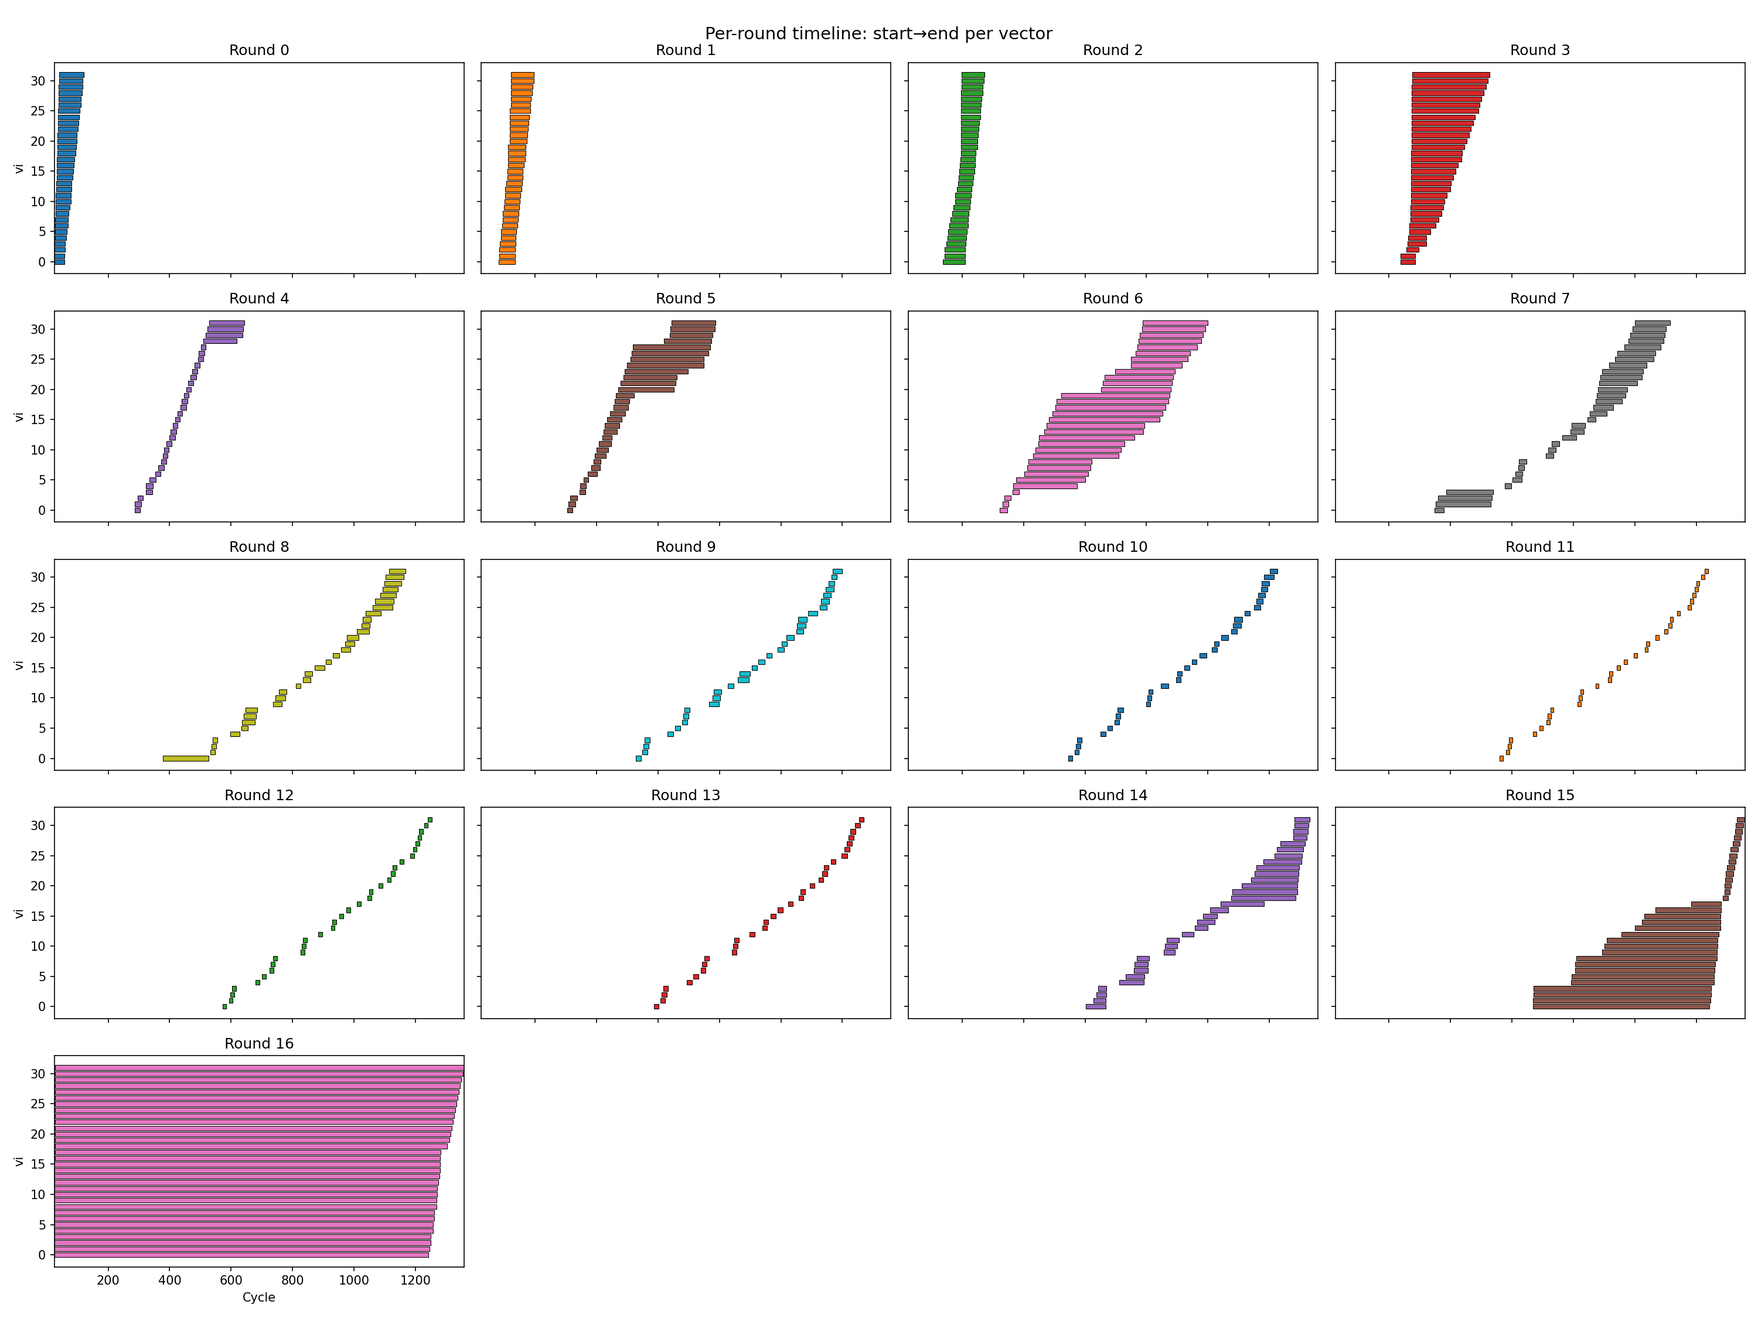
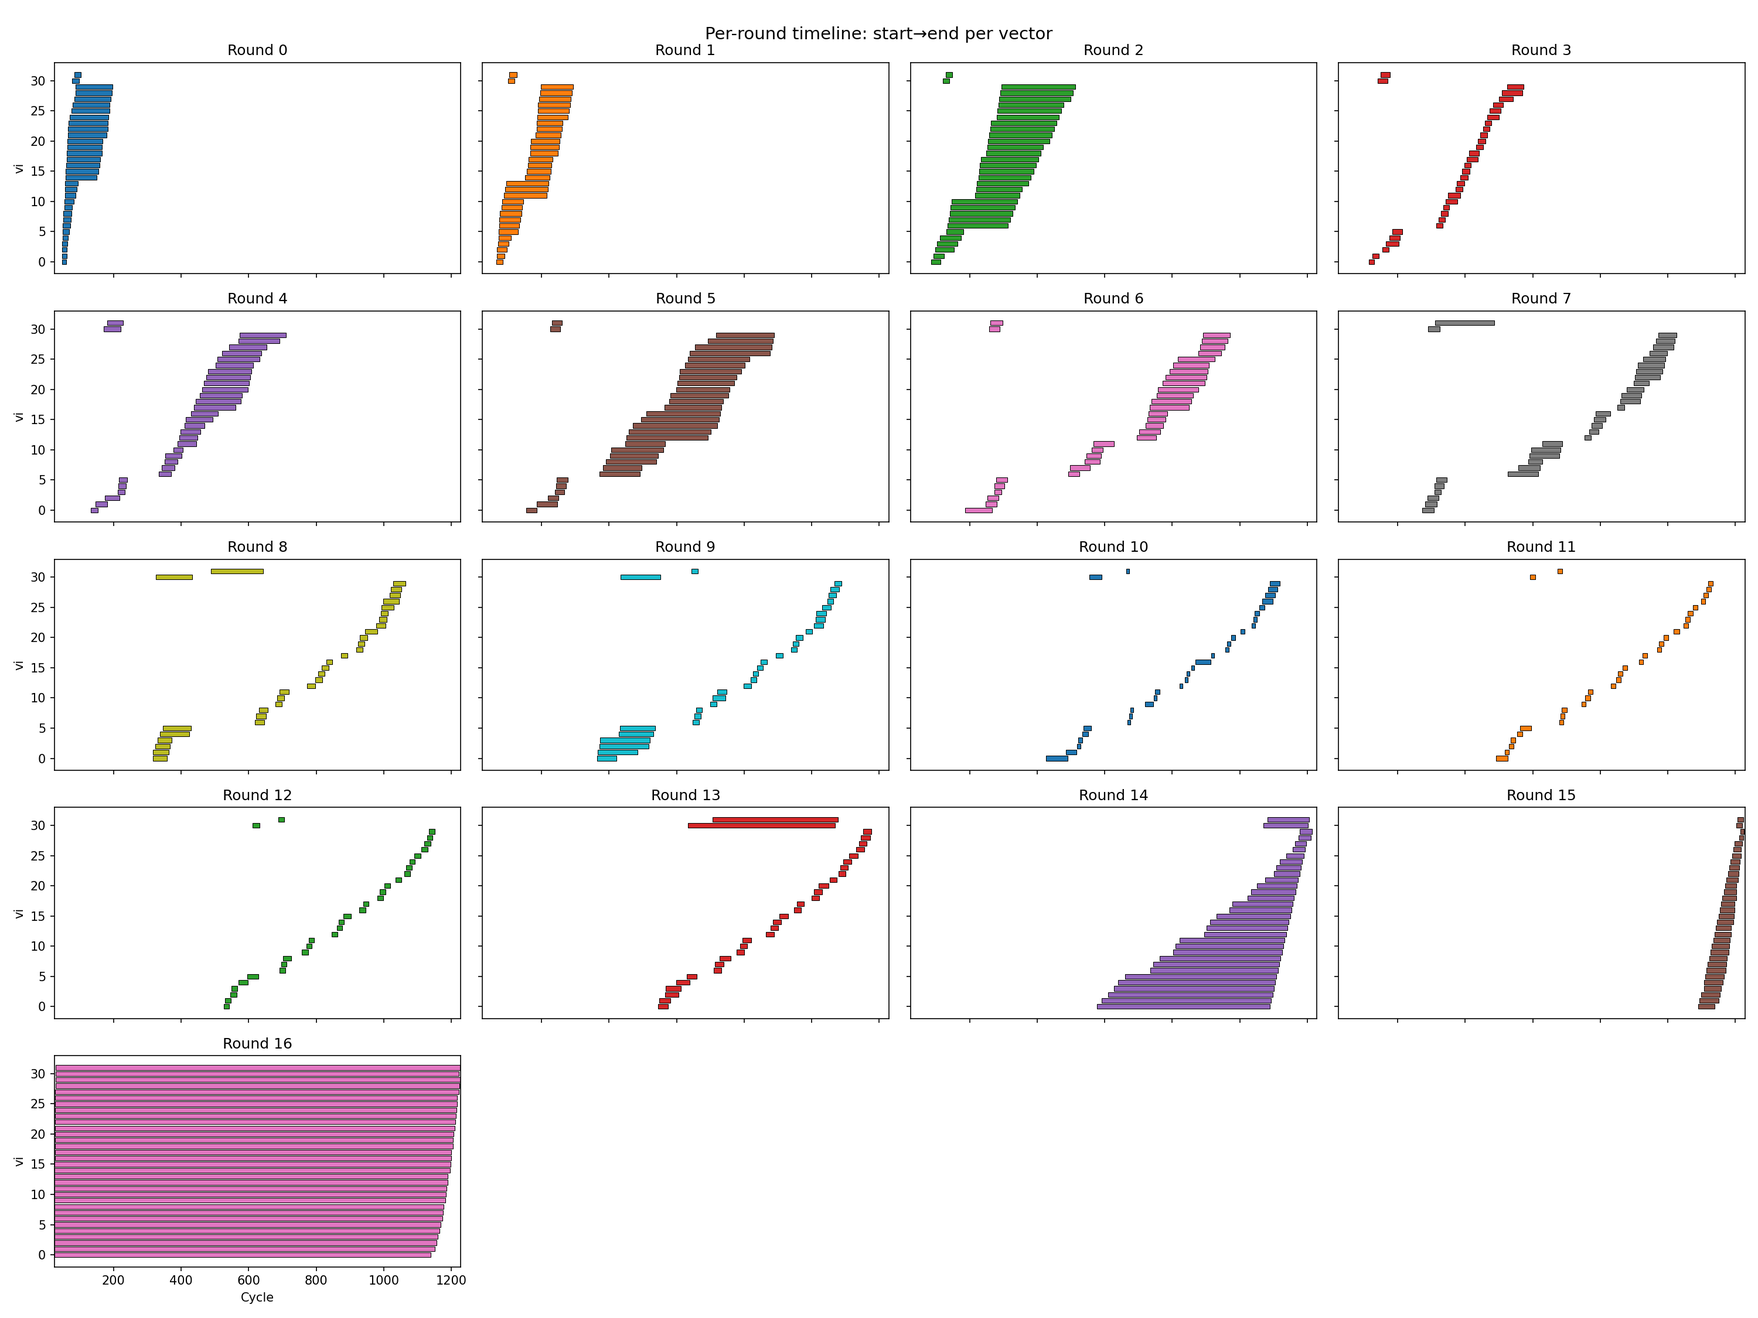
before removing unecessary subtraction, 1231

diff --git a/perf_takehome.py b/perf_takehome.py
@@ -256,30 +256,34 @@ def build_dag(slots):
 def compute_distances(slots, predecessors):
     """Compute BFS distance from each op to its nearest load and flow successor.
 
-    Used to prioritize ops that feed into bottleneck engines.
-    Returns (dist_to_load, dist_to_flow, dist_to_either).
+    Also tracks which specific load/flow op each op feeds into (target).
+    Returns (dist_to_load, dist_to_flow, dist_to_either,
+             target_load, target_flow).
     """
     n = len(slots)
 
     def bfs_dist(target_engines):
         dist = [n] * n
+        target = [-1] * n  # which specific bottleneck op this feeds
         queue = deque()
         for i in range(n):
             if slots[i][0] in target_engines:
                 dist[i] = 0
+                target[i] = i
                 queue.append(i)
         while queue:
             j = queue.popleft()
             for pred in predecessors[j]:
                 if dist[pred] > dist[j] + 1:
                     dist[pred] = dist[j] + 1
+                    target[pred] = target[j]
                     queue.append(pred)
-        return dist
+        return dist, target
 
-    dist_to_load = bfs_dist(("load",))
-    dist_to_flow = bfs_dist(("flow",))
+    dist_to_load, target_load = bfs_dist(("load",))
+    dist_to_flow, target_flow = bfs_dist(("flow",))
     dist_to_either = [min(dist_to_load[i], dist_to_flow[i]) for i in range(n)]
-    return dist_to_load, dist_to_flow, dist_to_either
+    return dist_to_load, dist_to_flow, dist_to_either, target_load, target_flow
 
 
 def compute_use_counts(slot_uses):
@@ -310,7 +314,7 @@ def schedule(slots, slot_limits, allocator, tags=None):
         return [], []
 
     slot_defs, slot_uses, successors, predecessors, in_degree = build_dag(slots)
-    dist_to_load, dist_to_flow, dist_to_either = compute_distances(slots, predecessors)
+    dist_to_load, dist_to_flow, dist_to_either, target_load, target_flow = compute_distances(slots, predecessors)
     remaining_uses = compute_use_counts(slot_uses)
 
     # === Active set management ===
@@ -376,6 +380,7 @@ def schedule(slots, slot_limits, allocator, tags=None):
     # Per-vector round tracking
     total_ops_per_vi_rnd = {k: len(v) for k, v in ops_per_vi_rnd.items()}
     scheduled_per_vi_rnd = defaultdict(int)
+    vi_rnd_start_cycle = {}  # (vi, rnd) -> cycle when first op scheduled
     vector_current_round = {}
     for vi in all_vectors:
         vector_current_round[vi] = min(vi_rounds[vi])
@@ -481,12 +486,33 @@ def schedule(slots, slot_limits, allocator, tags=None):
 
     # --- Scheduling state ---
 
-    active_dist = dist_to_either  # default, updated each cycle
+    # Dynamic remaining-predecessors metric: for each bottleneck op (load/flow),
+    # count how many unscheduled ops feed into it. As we schedule ops, the count
+    # drops, creating momentum toward finishing a group.
+    remaining_to_load = defaultdict(int)
+    remaining_to_flow = defaultdict(int)
+    for i in range(n):
+        if target_load[i] >= 0:
+            remaining_to_load[target_load[i]] += 1
+        if target_flow[i] >= 0:
+            remaining_to_flow[target_flow[i]] += 1
+
+    active_metric = "either"  # "load", "flow", or "either"
 
     def sched_key(i):
-        vi = op_vi[i]
-        vp = vector_priority.get(vi, 1) if vi >= 0 else 1
-        return (active_dist[i], sort_key(i), i)
+        if active_metric == "load":
+            d = dist_to_load[i]
+            r = remaining_to_load.get(target_load[i], n)
+        elif active_metric == "flow":
+            d = dist_to_flow[i]
+            r = remaining_to_flow.get(target_flow[i], n)
+        else:
+            d = dist_to_either[i]
+            r = min(
+                remaining_to_load.get(target_load[i], n),
+                remaining_to_flow.get(target_flow[i], n),
+            )
+        return (d, sort_key(i), i)
 
     ready = sorted([i for i in range(n) if in_degree[i] == 0], key=sched_key)
     bundles = []
@@ -532,13 +558,21 @@ def schedule(slots, slot_limits, allocator, tags=None):
         remaining = []
         pending_frees = []
 
+        def mark_scheduled(i):
+            """Update dynamic metrics and bookkeeping when op i completes."""
+            scheduled_this_cycle.append(i)
+            op_scheduled_cycle[i] = cycle_num
+            pending_frees.extend(consume_uses(i))
+            if target_load[i] >= 0:
+                remaining_to_load[target_load[i]] -= 1
+            if target_flow[i] >= 0:
+                remaining_to_flow[target_flow[i]] -= 1
+
         def emit(slot_tuple, i):
             """Append a slot to the bundle and mark op i as scheduled."""
             bundle.append(slot_tuple)
             bundle_meta.append(build_meta(i))
-            scheduled_this_cycle.append(i)
-            op_scheduled_cycle[i] = cycle_num
-            pending_frees.extend(consume_uses(i))
+            mark_scheduled(i)
 
         # Re-admit vectors to active set based on scheduling priority
         if has_vectors and len(active_set) < MAX_ACTIVE:
@@ -546,7 +580,7 @@ def schedule(slots, slot_limits, allocator, tags=None):
             candidate_vis = {}
             for i in ready:
                 vi_i = op_vi[i]
-                if vi_i >= 0 and vi_i not in active_set and slots[i][0] not in ("load", "flow", "store"):
+                if vi_i >= 0 and vi_i not in active_set:
                     if vi_i not in candidate_vis or sched_key(i) < candidate_vis[vi_i]:
                         candidate_vis[vi_i] = sched_key(i)
             # Admit best candidates up to MAX_ACTIVE
@@ -570,9 +604,7 @@ def schedule(slots, slot_limits, allocator, tags=None):
             partial_ops[i] = done_so_far + can_do
             if partial_ops[i] >= VLEN:
                 del partial_ops[i]
-                scheduled_this_cycle.append(i)
-                op_scheduled_cycle[i] = cycle_num
-                pending_frees.extend(consume_uses(i))
+                mark_scheduled(i)
 
         # Compute vector priorities based on turnaround cost to VALU work
         if has_vectors:
@@ -593,17 +625,17 @@ def schedule(slots, slot_limits, allocator, tags=None):
                 for vi in active_set:
                     vector_priority[vi] = 0
 
-        # Original adaptive heuristic: bias toward starved resource
+        # Adaptive starvation: bias remaining-preds metric toward starved resource
         n_ready_loads = sum(1 for i in ready if slots[i][0] == "load")
         n_ready_flows = sum(1 for i in ready if slots[i][0] == "flow")
         load_starved = n_ready_loads < slot_limits.get("load", 2)
         flow_starved = n_ready_flows < slot_limits.get("flow", 1)
         if load_starved and not flow_starved:
-            active_dist = dist_to_load
+            active_metric = "load"
         elif flow_starved and not load_starved:
-            active_dist = dist_to_flow
+            active_metric = "flow"
         else:
-            active_dist = dist_to_either
+            active_metric = "either"
 
         ready.sort(key=sched_key)
 
@@ -611,9 +643,9 @@ def schedule(slots, slot_limits, allocator, tags=None):
         for i in ready:
             engine = slots[i][0]
 
-            # Active set gating: only gate compute ops (valu/alu), not load/flow
+            # Active set gating: gate ALL ops for inactive vectors
             vi_i = op_vi[i]
-            if vi_i >= 0 and vi_i not in active_set and engine not in ("load", "flow", "store"):
+            if vi_i >= 0 and vi_i not in active_set:
                 remaining.append(i)
                 continue
 
@@ -665,8 +697,7 @@ def schedule(slots, slot_limits, allocator, tags=None):
                 available["alu"] -= can_do
                 op_scheduled_cycle[i] = cycle_num
                 if can_do >= VLEN:
-                    scheduled_this_cycle.append(i)
-                    pending_frees.extend(consume_uses(i))
+                    mark_scheduled(i)
                 else:
                     partial_ops[i] = can_do
 
@@ -693,8 +724,12 @@ def schedule(slots, slot_limits, allocator, tags=None):
                     continue
                 key = (vi_s, rnd_s)
                 if key in total_ops_per_vi_rnd:
+                    if key not in vi_rnd_start_cycle:
+                        vi_rnd_start_cycle[key] = cycle_num
                     scheduled_per_vi_rnd[key] += 1
                     if scheduled_per_vi_rnd[key] >= total_ops_per_vi_rnd[key]:
+                        start_c = vi_rnd_start_cycle.get(key, -1)
+                        print(f"  (vi={vi_s}, rnd={rnd_s}) done cycle={cycle_num} (started={start_c}, dur={cycle_num - start_c})")
                         # (vi, rnd) complete — advance vector to next round
                         next_rounds = sorted(
                             r for r in vi_rounds[vi_s]
@@ -712,8 +747,8 @@ def schedule(slots, slot_limits, allocator, tags=None):
             cycle_num += 1
         elif not partial_ops:
             if ready:
-                gated = [i for i in ready if op_vi[i] >= 0 and op_vi[i] not in active_set and slots[i][0] not in ("load", "flow", "store")]
-                not_gated = [i for i in ready if not (op_vi[i] >= 0 and op_vi[i] not in active_set and slots[i][0] not in ("load", "flow", "store"))]
+                gated = [i for i in ready if op_vi[i] >= 0 and op_vi[i] not in active_set]
+                not_gated = [i for i in ready if not (op_vi[i] >= 0 and op_vi[i] not in active_set)]
                 engines = Counter(slots[i][0] for i in ready)
                 print(f"  DEADLOCK cycle={cycle_num}: {len(ready)} ready, {len(gated)} gated, {len(not_gated)} not gated")
                 print(f"  Engines: {dict(engines)}, Scratch: {allocator.current_usage()}/{allocator.scratch_size}")
@@ -1150,19 +1185,25 @@ class KernelBuilder:
             return slots, broadcast_vregs[0]
 
         if k == 1:
-            # Special case: idx is always 1 or 2 at k=1. idx&1 gives inverted bit,
-            # so swap vselect args to avoid the subtract.
+            # 1-based: idx' is 2 or 3 at k=1. idx'&1 = 0 for left (node 2), 1 for right (node 3).
             bit = self.new_vreg_vec(f"bit_0_stage0_vec{index}")
             slots.append(("valu", ("&", bit, idx_vreg, self.pinned_vreg("one_vec", VLEN))))
             result = self.new_vreg_vec(f"mux_stage0_vec{index}_0")
-            slots.append(("flow", ("vselect", result, bit, broadcast_vregs[0], broadcast_vregs[1])))
+            # Non-inverted: bit=0 selects broadcast[0] (left), bit=1 selects broadcast[1] (right)
+            slots.append(("flow", ("vselect", result, bit, broadcast_vregs[1], broadcast_vregs[0])))
             return slots, result
 
+        # 1-based: level k starts at 2^k, so position = low k bits of idx'.
+        # No subtract needed — bit extraction only looks at low bits.
+        # Subtract kept: removing it saves ops but hurts scheduling (fewer deps = more
+        # scratch pressure). With subtract: 1231 cycles, without: 1266 cycles.
+        _level_start_1based = {2: "four_vec", 3: "eight_vec", 4: "sixteen_vec"}
         adjusted_idx = self.new_vreg_vec(f"mux{k}_adjusted_idx_vec{index}")
-        slots.append(("valu", ("-", adjusted_idx, idx_vreg, self.pinned_vreg(f"level_start{k}_vec", VLEN))))
+        slots.append(("valu", ("-", adjusted_idx, idx_vreg, self.pinned_vreg(_level_start_1based[k], VLEN))))
+        bit_source = adjusted_idx
 
         for stage in range(k):
-            shift_slots, condition_vreg = extract_bit(adjusted_idx, stage, stage, index)
+            shift_slots, condition_vreg = extract_bit(bit_source, stage, stage, index)
             slots.extend(shift_slots)
             next_vregs = []
             for i in range(max(len(remaining_vregs)//2, 1)):
@@ -1251,6 +1292,7 @@ class KernelBuilder:
         two_vec = self.pinned_vreg("two_vec", VLEN)
         four_vec = self.pinned_vreg("four_vec", VLEN)
         eight_vec = self.pinned_vreg("eight_vec", VLEN)
+        sixteen_vec = self.pinned_vreg("sixteen_vec", VLEN)
         forest_p_vec = self.pinned_vreg("forest_p_vec", VLEN)
 
         emit(("valu", ("vbroadcast", zero_vec, zero_const)))
@@ -1258,14 +1300,17 @@ class KernelBuilder:
         emit(("valu", ("vbroadcast", two_vec, two_const)))
         emit(("valu", ("vbroadcast", four_vec, self.scratch_const(4))))
         emit(("valu", ("vbroadcast", eight_vec, self.scratch_const(8))))
+        emit(("valu", ("vbroadcast", sixteen_vec, self.scratch_const(16))))
         emit(("valu", ("vbroadcast", forest_p_vec, param_vregs["forest_values_p"])))
-        # Level start broadcasts for mux subtract (k=0 unused, k=1 uses idx&1 directly)
-        level_start2_vec = self.pinned_vreg("level_start2_vec", VLEN)
-        emit(("valu", ("vbroadcast", level_start2_vec, self.scratch_const(3))))
-        level_start3_vec = self.pinned_vreg("level_start3_vec", VLEN)
-        emit(("valu", ("vbroadcast", level_start3_vec, self.scratch_const(7))))
-        level_start4_vec = self.pinned_vreg("level_start4_vec", VLEN)
-        emit(("valu", ("vbroadcast", level_start4_vec, self.scratch_const(15))))
+        # 1-based indexing: gather uses forest_p - 1 + idx' instead of forest_p + idx
+        forest_p_m1_vec = self.pinned_vreg("forest_p_m1_vec", VLEN)
+        minus_one_const = self.scratch_const(0xFFFFFFFF)  # -1 mod 2^32
+        emit(("valu", ("vbroadcast", forest_p_m1_vec, minus_one_const)))
+        # forest_p_m1_vec = forest_p_vec + (-1) = forest_p - 1
+        forest_p_m1_final = self.pinned_vreg("forest_p_m1_final", VLEN)
+        emit(("valu", ("+", forest_p_m1_final, forest_p_vec, forest_p_m1_vec)))
+        # 1-based indexing: level start constants are powers of 2, already broadcast
+        # as four_vec (k=2) and eight_vec (k=3). No extra broadcasts needed.
 
         # Pre-broadcast all 12 hash constants (pinned since used every iteration)
         hash_const_vecs = []
@@ -1298,10 +1343,13 @@ class KernelBuilder:
             emit(("flex_alu_add", ("+", idx_base, param_vregs["inp_indices_p"], offset_const, offset_imm)), vi=vi, rnd=-1)
             emit(("flex_alu_add", ("+", val_base, param_vregs["inp_values_p"], offset_const, offset_imm)), vi=vi, rnd=-1)
 
-            idx_v = self.new_vreg_vec(f"idx_init_v{vi}")
+            idx_v_raw = self.new_vreg_vec(f"idx_raw_v{vi}")
             val_v = self.new_vreg_vec(f"val_init_v{vi}")
-            emit(("load", ("vload", idx_v, idx_base)), vi=vi, rnd=-1)
+            emit(("load", ("vload", idx_v_raw, idx_base)), vi=vi, rnd=-1)
             emit(("load", ("vload", val_v, val_base)), vi=vi, rnd=-1)
+            # Convert to 1-based indexing: idx' = idx + 1
+            idx_v = self.new_vreg_vec(f"idx_init_v{vi}")
+            emit(("valu", ("+", idx_v, idx_v_raw, one_vec)), vi=vi, rnd=-1)
             idx_vecs.append(idx_v)
             val_vecs.append(val_v)
 
@@ -1311,17 +1359,21 @@ class KernelBuilder:
             new_idx_vecs = []
             new_val_vecs = []
             k = rnd % (forest_height + 1)
+            # Mux/gather sets up node values for this round's hash.
+            # Tag as prev flight (rnd-1) so it's part of the previous flight.
+            setup_rnd = rnd - 1 if rnd > 0 else -1
+
             if k <= 3:
                 if k in cached_broadcasts:
                     broadcast_vregs = cached_broadcasts[k]
                 else:
                     preload_slots, broadcast_vregs = self.preload_level(k, param_vregs["forest_values_p"])
-                    emit_all(preload_slots, rnd=rnd)
+                    emit_all(preload_slots, rnd=setup_rnd)
                     cached_broadcasts[k] = broadcast_vregs
 
             # Optimal mux/gather split: balance flow (mux) vs load (gather)
             # m = 4n / (2^k + 3), rounded to nearest int
-            mux_count = {0: n_vectors, 1: n_vectors, 2: n_vectors, 3: n_vectors, 4: 3}
+            mux_count = {0: n_vectors, 1: n_vectors, 2: n_vectors, 3: n_vectors - 2, 4: 1}
 
             for vi in range(n_vectors):
                 idx_loaded = idx_vecs[vi]
@@ -1330,15 +1382,16 @@ class KernelBuilder:
                 # Compute gather addresses: addr = forest_p + idx
                 if k <= 3 and vi < mux_count[k]:
                     select_slots, node_val = self.build_mux_select(broadcast_vregs, idx_loaded, k, vi)
-                    emit_all(select_slots, vi=vi, rnd=rnd)
+                    emit_all(select_slots, vi=vi, rnd=setup_rnd)
 
                 else:
                     addr_vec = self.new_vreg_vec(f"addr_r{rnd}_v{vi}")
-                    emit(("valu", ("+", addr_vec, forest_p_vec, idx_loaded)), vi=vi, rnd=rnd)
+                    # 1-based: addr = (forest_p - 1) + idx'
+                    emit(("valu", ("+", addr_vec, forest_p_m1_final, idx_loaded)), vi=vi, rnd=setup_rnd)
 
                     # Gather node values from tree (still from main memory)
                     gather_slots, node_val = self.build_gather(addr_vec, f"node_r{rnd}_v{vi}")
-                    emit_all(gather_slots, vi=vi, rnd=rnd)
+                    emit_all(gather_slots, vi=vi, rnd=setup_rnd)
 
                 # val = val ^ node_val
                 val_xored = self.new_vreg_vec(f"xor_r{rnd}_v{vi}")
@@ -1349,25 +1402,15 @@ class KernelBuilder:
                 emit_all(hash_slots, vi=vi, rnd=rnd)
 
                 if k == forest_height:
-                    # At leaves: idx always wraps to 0, skip entire idx computation
-                    new_idx_vecs.append(zero_vec)
-                elif idx_loaded is zero_vec:
-                    # idx was reset to 0 (came from leaf): 2*0+1+parity = 1+parity
-                    parity = self.new_vreg_vec(f"parity_r{rnd}_v{vi}")
-                    idx_next = self.new_vreg_vec(f"idx_next_r{rnd}_v{vi}")
-
-                    emit(("valu", ("&", parity, val_hashed, one_vec)), vi=vi, rnd=rnd)
-                    emit(("valu", ("+", idx_next, one_vec, parity)), vi=vi, rnd=rnd)
-                    new_idx_vecs.append(idx_next)
+                    # At leaves: idx wraps to root. 1-based root = 1
+                    new_idx_vecs.append(one_vec)
                 else:
-                    # idx = 2*idx + 1 + (val & 1)
+                    # 1-based: idx_next' = 2*idx' + parity (2 ops instead of 3)
                     parity = self.new_vreg_vec(f"parity_r{rnd}_v{vi}")
-                    idx_doubled_plus1 = self.new_vreg_vec(f"idx2p1_r{rnd}_v{vi}")
                     idx_next = self.new_vreg_vec(f"idx_next_r{rnd}_v{vi}")
 
                     emit(("valu", ("&", parity, val_hashed, one_vec)), vi=vi, rnd=rnd)
-                    emit(("valu", ("multiply_add", idx_doubled_plus1, idx_loaded, two_vec, one_vec)), vi=vi, rnd=rnd)
-                    emit(("valu", ("+", idx_next, idx_doubled_plus1, parity)), vi=vi, rnd=rnd)
+                    emit(("valu", ("multiply_add", idx_next, idx_loaded, two_vec, parity)), vi=vi, rnd=rnd)
                     new_idx_vecs.append(idx_next)
 
                 new_val_vecs.append(val_hashed)
@@ -1376,14 +1419,20 @@ class KernelBuilder:
             val_vecs = new_val_vecs
 
         # Store final results back to memory (once)
+        # Convert idx back from 1-based to 0-based: idx = idx' - 1 = idx' + 0xFFFFFFFF
+        minus_one_vec = self.pinned_vreg("minus_one_vec", VLEN)
+        emit(("valu", ("vbroadcast", minus_one_vec, minus_one_const)))
         for vi in range(n_vectors):
             offset_imm = vi * VLEN
             offset_const = self.scratch_const(offset_imm)
             idx_base = self.new_vreg(f"idx_base_final_v{vi}")
             val_base = self.new_vreg(f"val_base_final_v{vi}")
+            # Convert 1-based idx back to 0-based
+            idx_0based = self.new_vreg_vec(f"idx_0based_v{vi}")
+            emit(("valu", ("+", idx_0based, idx_vecs[vi], minus_one_vec)), vi=vi, rnd=rounds)
             emit(("flex_alu_add", ("+", idx_base, param_vregs["inp_indices_p"], offset_const, offset_imm)), vi=vi, rnd=rounds)
             emit(("flex_alu_add", ("+", val_base, param_vregs["inp_values_p"], offset_const, offset_imm)), vi=vi, rnd=rounds)
-            emit(("store", ("vstore", idx_base, idx_vecs[vi])), vi=vi, rnd=rounds)
+            emit(("store", ("vstore", idx_base, idx_0based)), vi=vi, rnd=rounds)
             emit(("store", ("vstore", val_base, val_vecs[vi])), vi=vi, rnd=rounds)
 
         # Prepend all setup loads to body for scheduling
